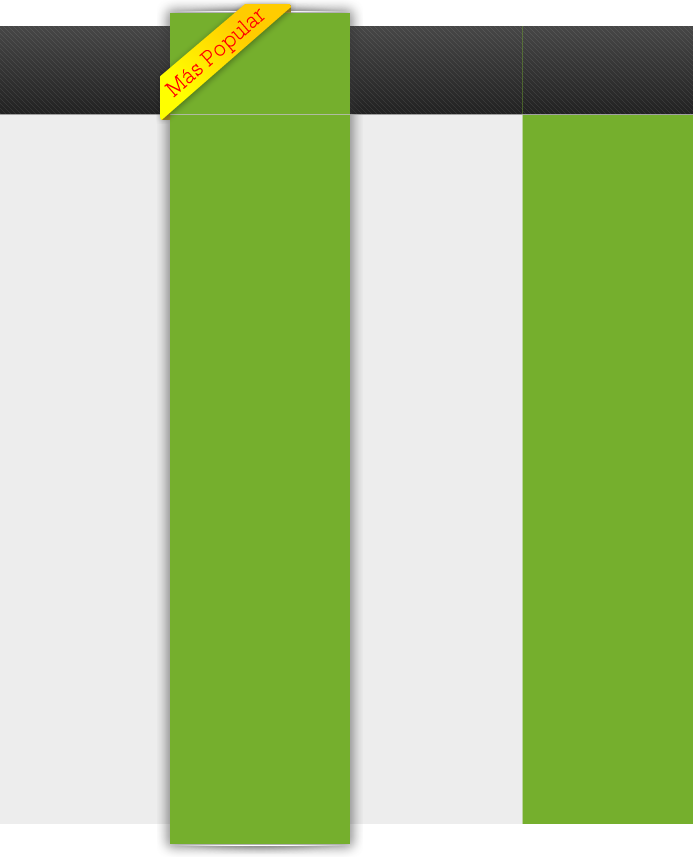
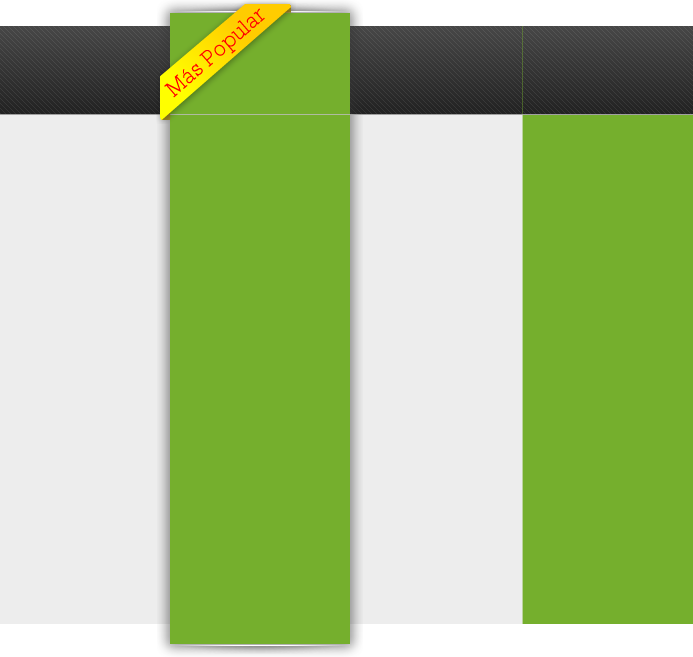
Recorte de la imagen de fondo de los planes y disminucion de la altura de la tabla

diff --git a/css/propiedadsantiaguera.css b/css/propiedadsantiaguera.css
@@ -2978,7 +2978,7 @@ span.required{
     color:#333;
     width:687px;
     text-align: center;
-    height: 860px;
+    height: 670px;
     border-collapse:collapse;
 }
 #planes_data th
